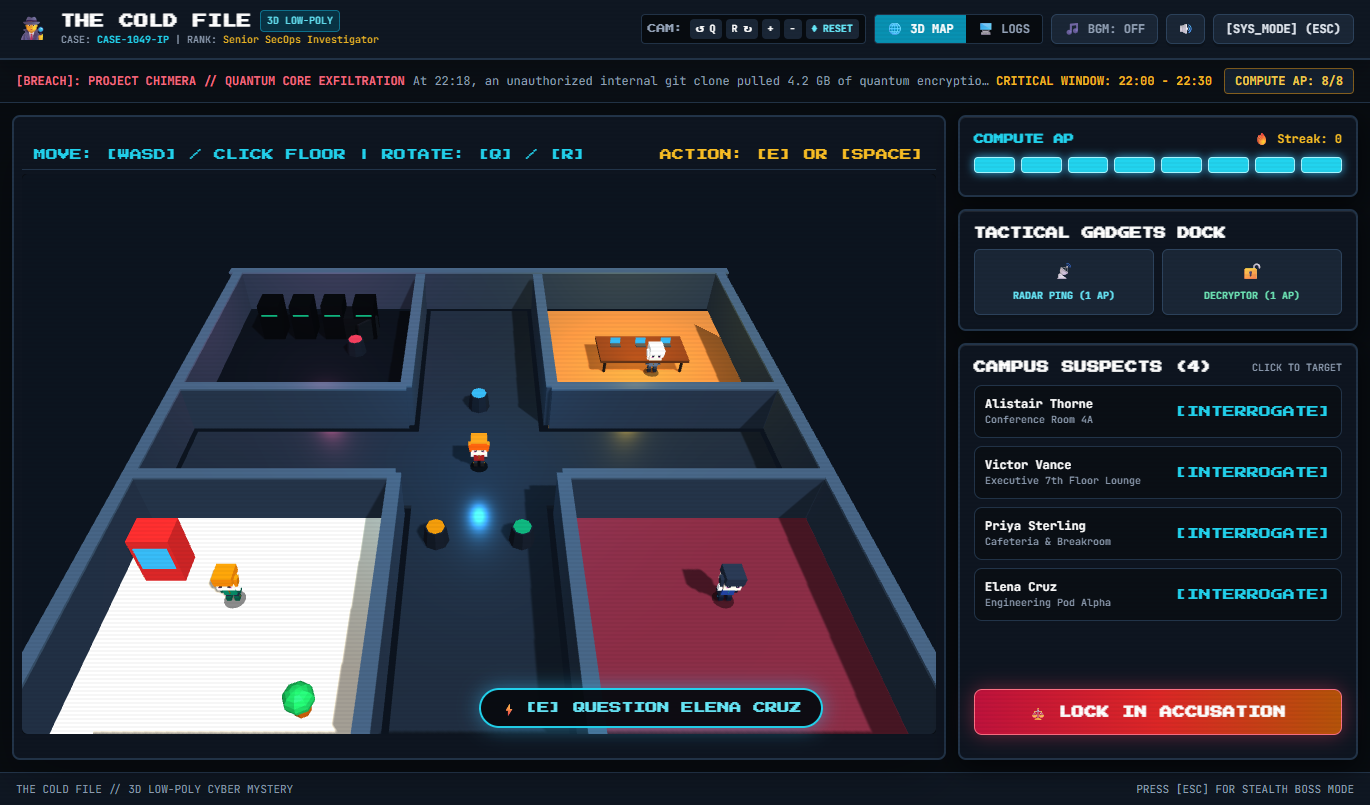
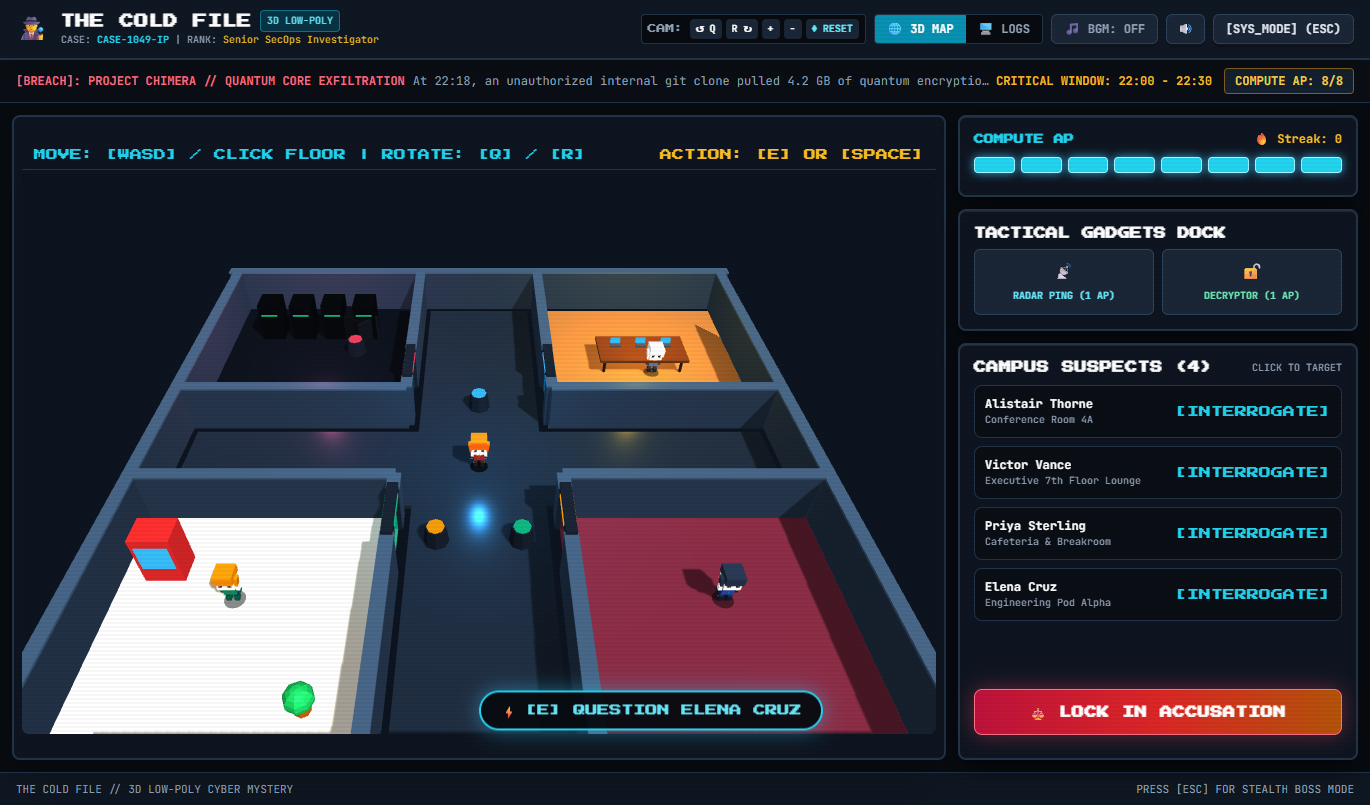
Add interactive 3D automatic sliding doors with glowing lintels and holographic cyber detective cursor

diff --git a/index.html b/index.html
@@ -152,6 +152,82 @@
     ::-webkit-scrollbar-thumb:hover {
       background: #38BDF8;
     }
+
+    /* Custom Cyber-Detective Holographic Cursor */
+    * {
+      cursor: none !important;
+    }
+
+    .cyber-cursor-dot {
+      position: fixed;
+      top: 0;
+      left: 0;
+      width: 6px;
+      height: 6px;
+      background: #38BDF8;
+      border-radius: 50%;
+      pointer-events: none;
+      z-index: 99999;
+      transform: translate(-50%, -50%);
+      box-shadow: 0 0 8px #38BDF8, 0 0 16px rgba(56, 189, 248, 0.8);
+      transition: background 0.15s ease;
+    }
+
+    .cyber-cursor-reticle {
+      position: fixed;
+      top: 0;
+      left: 0;
+      width: 34px;
+      height: 34px;
+      border: 1.5px solid rgba(56, 189, 248, 0.65);
+      border-radius: 50%;
+      pointer-events: none;
+      z-index: 99998;
+      transform: translate(-50%, -50%);
+      transition: width 0.18s ease, height 0.18s ease, border-color 0.18s ease, box-shadow 0.18s ease;
+      display: flex;
+      align-items: center;
+      justify-content: center;
+    }
+
+    .cyber-cursor-reticle.hovered {
+      width: 48px;
+      height: 48px;
+      border-color: #F59E0B;
+      box-shadow: 0 0 16px rgba(245, 158, 11, 0.5);
+    }
+
+    .cyber-cursor-reticle.clicked {
+      transform: translate(-50%, -50%) scale(1.4);
+      border-color: #F43F5E;
+      box-shadow: 0 0 20px rgba(244, 63, 94, 0.8);
+    }
+
+    /* 4 Cardinal Crosshair Ticks */
+    .reticle-tick {
+      position: absolute;
+      background: #38BDF8;
+      transition: background 0.15s ease;
+    }
+    .cyber-cursor-reticle.hovered .reticle-tick {
+      background: #F59E0B;
+    }
+    .cyber-cursor-reticle.clicked .reticle-tick {
+      background: #F43F5E;
+    }
+    .tick-top { top: -5px; left: calc(50% - 1px); width: 2px; height: 5px; }
+    .tick-bottom { bottom: -5px; left: calc(50% - 1px); width: 2px; height: 5px; }
+    .tick-left { left: -5px; top: calc(50% - 1px); width: 5px; height: 2px; }
+    .tick-right { right: -5px; top: calc(50% - 1px); width: 5px; height: 2px; }
+
+    /* Rotating HUD animation */
+    @keyframes hudSpin {
+      from { transform: translate(-50%, -50%) rotate(0deg); }
+      to { transform: translate(-50%, -50%) rotate(360deg); }
+    }
+    .reticle-spin {
+      animation: hudSpin 9s linear infinite;
+    }
   </style>
 
   <!-- Global Diagnostic Fallback -->
@@ -976,16 +1052,125 @@
       addWall(-14.5, 0, 0.5, 29); // West
       addWall(14.5, 0, 0.5, 29);  // East
 
-      // Interior Dividing Walls (Leaving open central doors)
-      addWall(-3.5, -8.5, 0.5, 11);
-      addWall(3.5, -8.5, 0.5, 11);
-      addWall(-3.5, 8.5, 0.5, 11);
-      addWall(3.5, 8.5, 0.5, 11);
-
+      // Interior Dividing Walls with 2.4-unit Doorway Thresholds
+      // A) North-West Server Vault Walls & Doorway
+      addWall(-3.5, -10.35, 0.5, 8.3);
+      addWall(-3.5, -3.4, 0.5, 0.8);
       addWall(-9, -3, 11, 0.5);
+
+      // B) North-East Conference Room Walls & Doorway
+      addWall(3.5, -10.35, 0.5, 8.3);
+      addWall(3.5, -3.4, 0.5, 0.8);
       addWall(9, -3, 11, 0.5);
+
+      // C) South-West Cafeteria Walls & Doorway
+      addWall(-3.5, 3.4, 0.5, 0.8);
+      addWall(-3.5, 10.35, 0.5, 8.3);
       addWall(-9, 3, 11, 0.5);
+
+      // D) South-East Executive Lounge Walls & Doorway
+      addWall(3.5, 3.4, 0.5, 0.8);
+      addWall(3.5, 10.35, 0.5, 8.3);
       addWall(9, 3, 11, 0.5);
+
+      // 3. Automated Sliding Proximity Security Doors
+      const doors = [];
+      const createSlidingDoor = (dx, dz, rotationY, signColorHex, panelColorHex, isHazard = false) => {
+        const doorGroup = new THREE.Group();
+        doorGroup.position.set(dx, 0, dz);
+        doorGroup.rotation.y = rotationY;
+        officeGroup.add(doorGroup);
+
+        // Frame posts (Left & Right)
+        const frameMat = mat(0x1B2635, 0.4, 0.4);
+        const postL = new THREE.Mesh(new THREE.BoxGeometry(0.22, 2.5, 0.42), frameMat);
+        postL.position.set(-1.22, 1.25, 0);
+        postL.castShadow = true;
+        doorGroup.add(postL);
+
+        const postR = new THREE.Mesh(new THREE.BoxGeometry(0.22, 2.5, 0.42), frameMat);
+        postR.position.set(1.22, 1.25, 0);
+        postR.castShadow = true;
+        doorGroup.add(postR);
+
+        // Overhead Lintel Header
+        const lintel = new THREE.Mesh(new THREE.BoxGeometry(2.65, 0.4, 0.46), frameMat);
+        lintel.position.set(0, 2.45, 0);
+        doorGroup.add(lintel);
+
+        // Glowing Room Sign LED on Lintel
+        const signGeom = new THREE.BoxGeometry(1.6, 0.16, 0.52);
+        const signMat = new THREE.MeshBasicMaterial({ color: signColorHex });
+        const signMesh = new THREE.Mesh(signGeom, signMat);
+        signMesh.position.set(0, 2.45, 0);
+        doorGroup.add(signMesh);
+
+        // Left & Right Sliding Door Panels
+        const panelMat = new THREE.MeshStandardMaterial({
+          color: panelColorHex,
+          roughness: 0.15,
+          metalness: 0.1,
+          transparent: true,
+          opacity: 0.82
+        });
+
+        const panelL = new THREE.Mesh(new THREE.BoxGeometry(1.08, 2.2, 0.08), panelMat);
+        panelL.position.set(-0.55, 1.1, 0);
+        panelL.castShadow = true;
+        doorGroup.add(panelL);
+
+        const panelR = new THREE.Mesh(new THREE.BoxGeometry(1.08, 2.2, 0.08), panelMat);
+        panelR.position.set(0.55, 1.1, 0);
+        panelR.castShadow = true;
+        doorGroup.add(panelR);
+
+        // Door Handles
+        const handleMat = mat(isHazard ? 0xFBBF24 : 0xE2E8F0, 0.2, 0.8);
+        const handleL = new THREE.Mesh(new THREE.BoxGeometry(0.06, 0.5, 0.12), handleMat);
+        handleL.position.set(0.42, 0, 0);
+        panelL.add(handleL);
+
+        const handleR = new THREE.Mesh(new THREE.BoxGeometry(0.06, 0.5, 0.12), handleMat);
+        handleR.position.set(-0.42, 0, 0);
+        panelR.add(handleR);
+
+        // Biometric Wall Scanner Post
+        const scannerBox = new THREE.Mesh(new THREE.BoxGeometry(0.12, 0.28, 0.14), mat(0x0F1722));
+        scannerBox.position.set(1.36, 1.25, 0);
+        doorGroup.add(scannerBox);
+
+        const scannerLed = new THREE.Mesh(new THREE.BoxGeometry(0.06, 0.08, 0.08), new THREE.MeshBasicMaterial({ color: signColorHex }));
+        scannerLed.position.set(1.42, 1.3, 0);
+        doorGroup.add(scannerLed);
+
+        const doorObj = {
+          x: dx,
+          z: dz,
+          state: 0.0,
+          update: function(pX, pZ, dt) {
+            const dist = Math.hypot(this.x - pX, this.z - pZ);
+            const shouldOpen = dist < 3.2;
+            const target = shouldOpen ? 1.0 : 0.0;
+            if (Math.abs(this.state - target) > 0.01) {
+              if (shouldOpen && this.state < 0.1) {
+                audio.playTone(isHazard ? 380 : 560, 'sine', 0.06, 0.015);
+              }
+              this.state += (target - this.state) * dt * 7.5;
+              panelL.position.x = -0.55 - this.state * 0.95;
+              panelR.position.x = 0.55 + this.state * 0.95;
+            }
+          }
+        };
+
+        doors.push(doorObj);
+        return doorObj;
+      };
+
+      // 4 Interactive Proximity Doors
+      createSlidingDoor(-3.5, -5.0, Math.PI / 2, 0xF43F5E, 0x1E293B, true);  // Server Vault (Blast Door)
+      createSlidingDoor(3.5, -5.0, Math.PI / 2, 0x38BDF8, 0x0284C7, false);  // Conference Room 4A (Cyan Glass)
+      createSlidingDoor(-3.5, 5.0, Math.PI / 2, 0x10B981, 0x059669, false);  // Cafeteria & Breakroom (Emerald Glass)
+      createSlidingDoor(3.5, 5.0, Math.PI / 2, 0xF59E0B, 0x581C2B, false);   // Executive Lounge (Obsidian Glass)
 
       // 3. 3D Furniture & Atmosphere
       // A) Server Vault Racks (with emissive LED blinking strips)
@@ -1118,7 +1303,95 @@
         return { ...p, group: pedGroup };
       });
 
-      return { officeGroup, serverRacks, pedestalMeshes };
+      return { officeGroup, serverRacks, pedestalMeshes, doors };
+    }
+
+    // ==========================================
+    // 5. CUSTOM CYBER-DETECTIVE HOLOGRAPHIC CURSOR
+    // ==========================================
+    function CyberCursor() {
+      const [pos, setPos] = useState({ x: -100, y: -100 });
+      const [trail, setTrail] = useState({ x: -100, y: -100 });
+      const [hovered, setHovered] = useState(false);
+      const [hoverLabel, setHoverLabel] = useState('');
+      const [clicked, setClicked] = useState(false);
+
+      useEffect(() => {
+        let mouseX = -100, mouseY = -100;
+        let trailX = -100, trailY = -100;
+        let animId;
+
+        const onMouseMove = (e) => {
+          mouseX = e.clientX;
+          mouseY = e.clientY;
+          setPos({ x: e.clientX, y: e.clientY });
+
+          const el = e.target.closest('button, a, input, select, [onClick], canvas');
+          if (el) {
+            setHovered(true);
+            if (el.tagName === 'BUTTON') setHoverLabel('ACTION');
+            else if (el.tagName === 'CANVAS') setHoverLabel('GLIDE');
+            else setHoverLabel('INSPECT');
+          } else {
+            setHovered(false);
+            setHoverLabel('');
+          }
+        };
+
+        const onMouseDown = () => {
+          setClicked(true);
+          setTimeout(() => setClicked(false), 240);
+        };
+
+        const loop = () => {
+          trailX += (mouseX - trailX) * 0.32;
+          trailY += (mouseY - trailY) * 0.32;
+          setTrail({ x: trailX, y: trailY });
+          animId = requestAnimationFrame(loop);
+        };
+        animId = requestAnimationFrame(loop);
+
+        window.addEventListener('mousemove', onMouseMove);
+        window.addEventListener('mousedown', onMouseDown);
+        return () => {
+          window.removeEventListener('mousemove', onMouseMove);
+          window.removeEventListener('mousedown', onMouseDown);
+          cancelAnimationFrame(animId);
+        };
+      }, []);
+
+      if (pos.x < 0) return null;
+
+      return (
+        <React.Fragment>
+          {/* Laser Core Dot */}
+          <div
+            className="cyber-cursor-dot"
+            style={{ transform: `translate3d(${pos.x}px, ${pos.y}px, 0)` }}
+          />
+
+          {/* Smooth Trailing Rotating HUD Reticle */}
+          <div
+            className={`cyber-cursor-reticle reticle-spin ${hovered ? 'hovered' : ''} ${clicked ? 'clicked' : ''}`}
+            style={{ transform: `translate3d(${trail.x}px, ${trail.y}px, 0)` }}
+          >
+            <div className="reticle-tick tick-top" />
+            <div className="reticle-tick tick-bottom" />
+            <div className="reticle-tick tick-left" />
+            <div className="reticle-tick tick-right" />
+          </div>
+
+          {/* Precision Hover Tag */}
+          {hovered && hoverLabel && (
+            <div
+              className="fixed pointer-events-none z-[99999] text-[9px] font-pixel text-amber-300 bg-[#070B10]/95 px-2 py-0.5 rounded border border-amber-500/60 shadow-lg tracking-wider"
+              style={{ transform: `translate3d(${pos.x + 16}px, ${pos.y + 12}px, 0)` }}
+            >
+              [{hoverLabel}]
+            </div>
+          )}
+        </React.Fragment>
+      );
     }
 
     // ==========================================
@@ -1390,7 +1663,7 @@
         scene.add(concourseLight);
 
         // 3. Build Office Environment
-        const { officeGroup, serverRacks, pedestalMeshes } = build3DOfficeScene(scene);
+        const { officeGroup, serverRacks, pedestalMeshes, doors } = build3DOfficeScene(scene);
 
         // 4. Create Detective Mesh
         const playerMesh = createLowPolyChibiCharacter(DETECTIVE_THEME, true);
@@ -1422,7 +1695,8 @@
           suspectMeshes,
           pedestals: pedestalMeshes,
           radarMesh,
-          serverRacks
+          serverRacks,
+          doors
         };
 
         // Resize handler
@@ -1571,6 +1845,11 @@
               sm.mesh.userData.animate(dt, false, 0, currentTime / 1000);
             });
 
+            // Animate Automatic Sliding Proximity Doors
+            if (three.doors) {
+              three.doors.forEach(d => d.update(p.x, p.z, dt));
+            }
+
             // Smooth 3D Camera Tracking with Isometric Perspective
             const camDist = cameraZoomRef.current;
             const targetCamX = p.x + Math.sin(orbit) * camDist;
@@ -1654,6 +1933,9 @@
 
       return (
         <div className={`min-h-screen flex flex-col font-mono ${shakeScreen ? 'shake-effect' : ''}`}>
+          {/* Custom Cyber-Detective Holographic Reticle */}
+          <CyberCursor />
+
           <div className="fixed inset-0 scanlines z-40 pointer-events-none opacity-20"></div>
 
           {toastMsg && (
